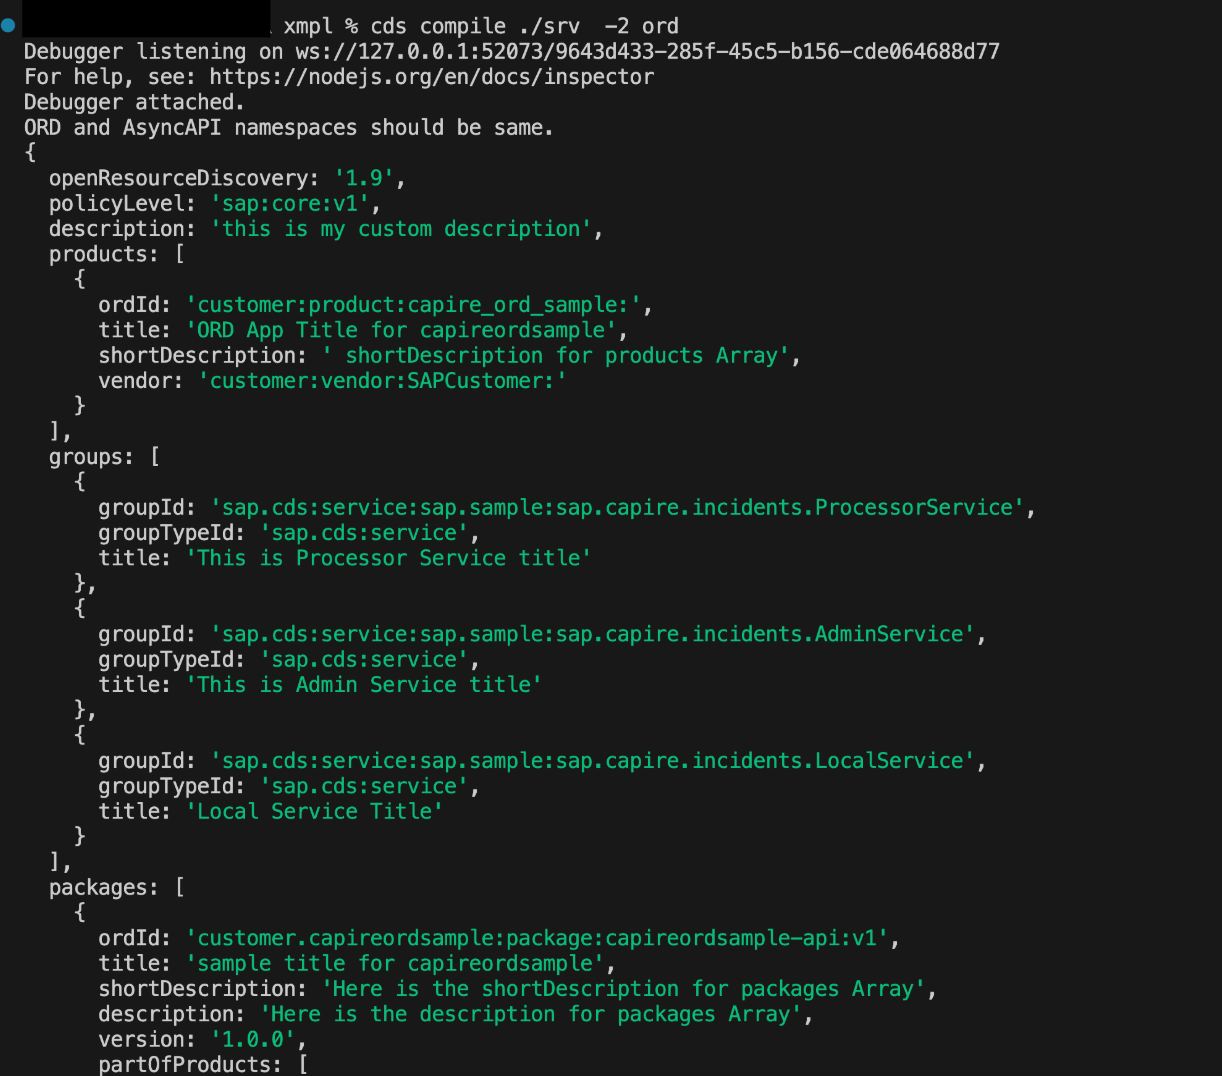
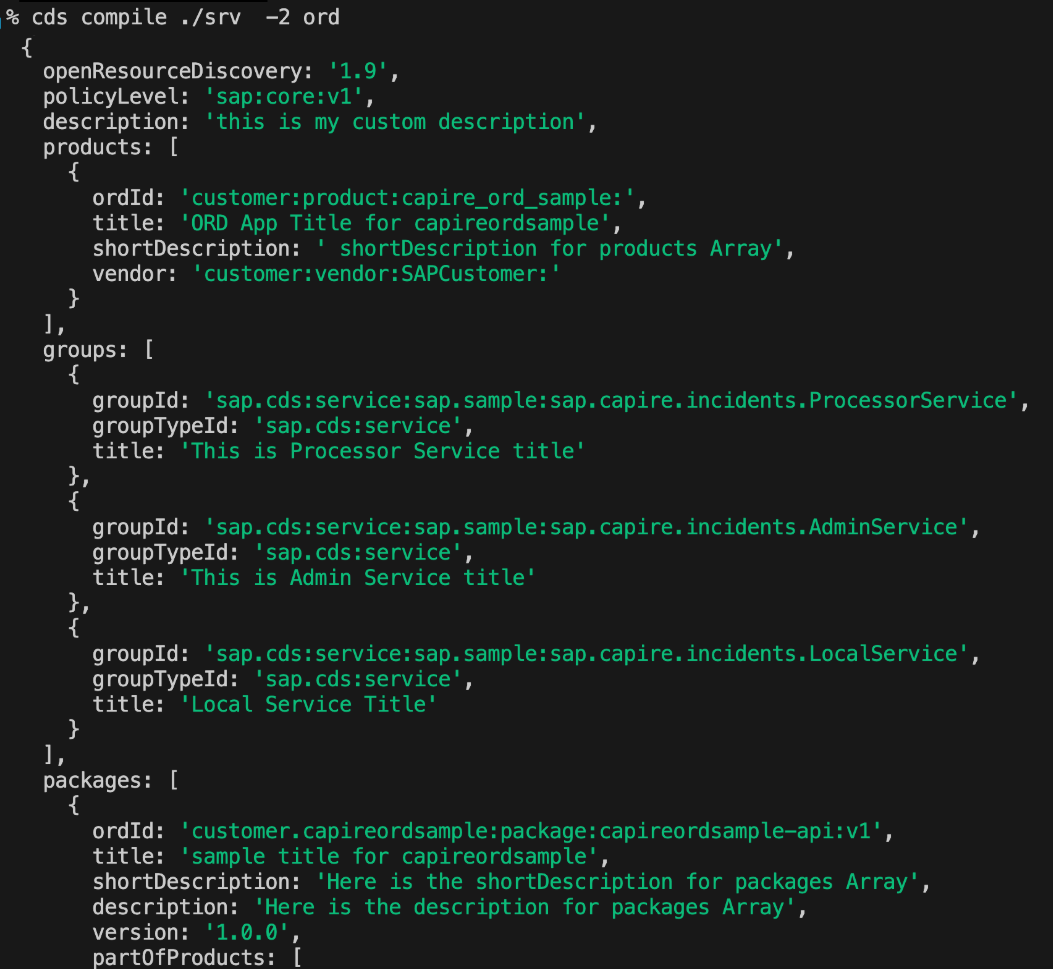
Move ORD plugin down, adjust screeshot

Changed region(s): [[0.0, 0.0, 0.9725, 1.0], [0.4862, 0.1238, 0.547, 0.1548]]

diff --git a/plugins/index.md b/plugins/index.md
@@ -127,19 +127,6 @@ Available for:
 
 See also [Cookbook > Protocols/APIs > OData APIs > V2 Support](../advanced/odata#v2-support) {.learn-more}
 
-## ORD (Open Resource Discovery)
-
-This plugin enables generation of ORD document for CAP based applications. You can get the ORD document in multiple ways, see the readme of the plugin.
-
-When you adopt ORD, your application gains a single entry point, known as the Service Provider Interface. This interface allows you to discover and gather relevant information or metadata. You can use this information to construct a static metadata catalog or to perform a detailed runtime inspection of your actual system landscapes.
-
-![](./assets/index/ordCLI.png){style="width:450px; box-shadow: 1px 1px 5px #888888"}
-
-Available for:
-
-[<img src="../assets/logos/nodejs.svg" style="height:2.5em; display:inline; margin:0 0.2em;" alt="link to the repository for cap-js attachments"/>](https://github.com/cap-js/ord)
-
-
 
 ## UI5 Dev Server
 
@@ -330,6 +317,20 @@ Available for:
 
 [![Node.js](../assets/logos/nodejs.svg 'Link to the plugins repository.'){style="height:2.5em; display:inline; margin:0 0.2em;"}](https://github.com/cap-js/telemetry#readme)
 [![Java](../assets/logos/java.svg 'Link to the documentation of the telemetry feature.'){style="height:3em; display:inline; margin:0 0.2em;"}](../java/operating-applications/observability#open-telemetry)
+
+## ORD (Open Resource Discovery)
+
+This plugin enables generation of [Open Resource Discovery (ORD)](https://sap.github.io/open-resource-discovery/) documents for CAP based applications.
+
+When you adopt ORD, your application gains a single entry point, known as the Service Provider Interface. This interface allows you to discover and gather relevant information or metadata. You can use this information to construct a static metadata catalog or to perform a detailed runtime inspection of your actual system landscapes.
+
+![](./assets/index/ordCLI.png){style="width:450px; box-shadow: 1px 1px 5px #888888" .mute-dark}
+
+You can get the ORD document in multiple ways, see the readme of the plugin.
+
+Available for:
+
+[<img src="../assets/logos/nodejs.svg" style="height:2.5em; display:inline; margin:0 0.2em;" alt="link to the repository for cap-js attachments"/>](https://github.com/cap-js/ord)
 
 
 ## CAP Operator for Kubernetes {#cap-operator-plugin}
